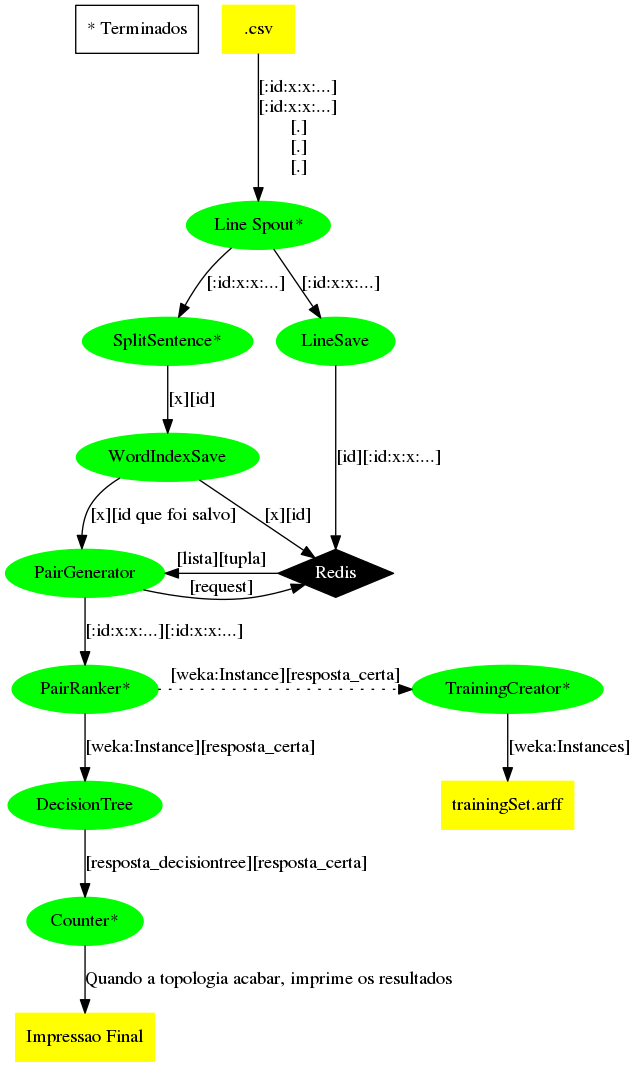
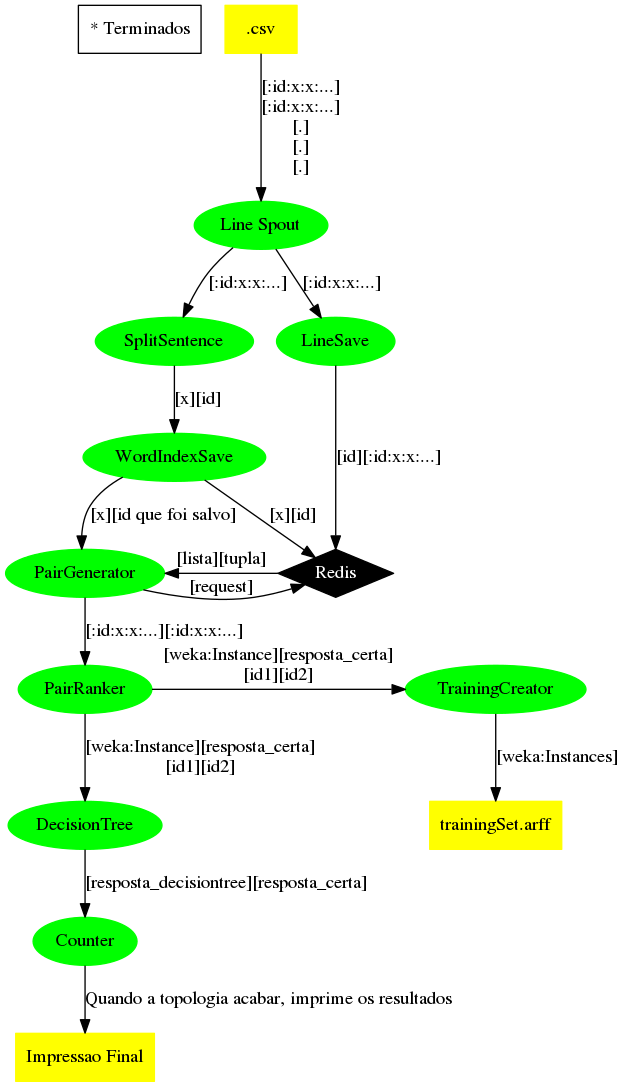
Nada de produtivo. O TrainingCreator não tá fazendo o que deveria

Changed region(s): [[0.0, 0.0, 1.0, 0.9897], [0.0913, 0.0, 0.3654, 0.0619]]

diff --git a/src/main/java/com/storminho/uffs/TrainingCreator.java b/src/main/java/com/storminho/uffs/TrainingCreator.java
@@ -11,6 +11,7 @@ import org.apache.storm.task.OutputCollector;
 
 import java.util.Map;
 import java.util.Random;
+import java.util.TreeSet;
 import org.apache.storm.task.TopologyContext;
 import org.apache.storm.tuple.Fields;
 import weka.core.DenseInstance;
@@ -19,9 +20,10 @@ import weka.core.Instances;
 public class TrainingCreator extends BaseRichBolt implements IRichBolt {
     PrintStream ps;
     double ss;
-    int paresPositivos, paresTotais;
+    int paresPositivos, paresTotais, trDup, trNao;
     Instances dataRaw;
     private WekaStorminho ws;
+    TreeSet<String> set;
 
 
     @Override
@@ -31,8 +33,9 @@ public class TrainingCreator extends BaseRichBolt implements IRichBolt {
         } catch (Exception e) {
             System.out.println(e);
         }
-        ss = Variables.trainingSampleSize;
-        paresPositivos = paresTotais = 0;
+        set = null;
+        set = new TreeSet<String>();
+        paresPositivos = paresTotais = trDup = trNao = 0;
 
         //weka
         WekaStorminho ws = new WekaStorminho();
@@ -46,38 +49,27 @@ public class TrainingCreator extends BaseRichBolt implements IRichBolt {
         Random random = new Random();
         int matchingInstances = (int)(ss * Variables.duplicatesTotal);
         double nonMatchRatio = (double)matchingInstances / Variables.totalPairs;
+        String id1 = tuple.getString(2), id2 = tuple.getString(3);
 
-        paresTotais++;
-        if (tuple.getInteger(1).equals(1)) {
-            if (random.nextDouble() < ss) { //ss = sample size
+        if (set.add(id1 + "_" + id2) && set.add(id2 + "_" + id1) && id1.equals(id2)) { //só vai passar por esse if aqueles que não foram considerados ainda e aqueles que não são exatamente igual (as redundâncias)
+            paresTotais++;
+            if (SharedMethods.isDuplicata(id1, id2)) { //Vai contar quantos pares distintos são duplicatas
                 paresPositivos++;
-            } else {
+                System.out.println(id1 + "\n" + id2);//////////////////////////////////////////////////////////////////////////////////////////
+                if (random.nextDouble() < Variables.trainingSampleSize) { //ss = sample size
+                    trDup++; //Quantas duplicatas entraram no set de treinamento
+                } else {
+                    return;
+                }
+            } else if (nonMatchRatio <= random.nextDouble()) {
                 return;
+            } else {
+                trNao++; //Quantas não-duplicatas entraram no set de treinamento
             }
-        } else if (nonMatchRatio <= random.nextDouble()) {
-            return;
+            ins.setDataset(dataRaw);
+            ins.setClassValue((tuple.getInteger(1) == 1 ? "duplicata":"não-duplicata"));
+            dataRaw.add(ins);
         }
-        ins.setDataset(dataRaw);
-        ins.setClassValue((tuple.getInteger(1) == 1 ? "duplicata":"não-duplicata"));
-        dataRaw.add(ins);
-    }
-
-    //Write "frame" for the .arff file
-    private void initializeArrfFile() {
-        int qtdMethods = 0;
-
-        //get the quantity of methods that gonna be used
-        for (int aux = Variables.rankingMethods; aux != 0; aux = aux >> 1) {
-            if ((1 & aux) != 0) qtdMethods++;
-        }
-
-        ps.print("@relation trainingSet\n");
-        int columns = (Variables.attributesNumber - (Variables.fieldId + 1)) * qtdMethods;
-        for (int i = 0; i < columns; i++) {
-            ps.print("@attribute att" + i + " numeric\n");
-        }
-        ps.print("@attribute isDuplicate numeric\n@data\n");
-        ps.flush();
     }
 
     @Override
@@ -90,6 +82,9 @@ public class TrainingCreator extends BaseRichBolt implements IRichBolt {
         ps.print(dataRaw);
         ps.flush();
         ps.close();
-        System.out.println("\n\n\nPARES DUPLICADOS: " + paresPositivos + " PARES TOTAIS: " + paresTotais + "\n\n\n");
+        System.out.println("\n\n\nENTRARAM NO IF:\nPARES DUPLICATAS: " + paresPositivos + " PARES TOTAIS: " + paresTotais);
+        System.out.println();
+        System.out.println("ENTRARAM NO TREINAMENTO:\nPositivos: " + trDup + " e Negativos: " + trNao + "\n\n");
+        System.out.println("\n");
     }
 }

diff --git a/src/main/java/com/storminho/uffs/PairRanker.java b/src/main/java/com/storminho/uffs/PairRanker.java
@@ -37,8 +37,7 @@ public class PairRanker extends BaseRichBolt implements IRichBolt {
 
     @Override
     public void execute(Tuple tuple) {
-//        System.out.println("[" + tuple.getString(0)+ " " +tuple.getString(1) + "]");
-        boolean duplicata = isDuplicata(tuple.getString(0), tuple.getString(1)); //checa se são duplicatas
+        boolean duplicata = SharedMethods.isDuplicata(tuple.getString(0), tuple.getString(1)); //checa se são duplicatas
         String tuple1[] = tuple.getString(0).split(Variables.splitChars);
         String tuple2[] = tuple.getString(1).split(Variables.splitChars);
         String store = "";
@@ -50,11 +49,11 @@ public class PairRanker extends BaseRichBolt implements IRichBolt {
                 if ((2 & Variables.rankingMethods) != 0) instanceValues[i++] = jaccardSim.compare(tuple1[j], tuple2[j]);
                 if ((4 & Variables.rankingMethods) != 0) instanceValues[i++] = jaroWinklerSim.compare(tuple1[j], tuple2[j]);
                 if ((8 & Variables.rankingMethods) != 0) instanceValues[i++] = levenshteinSim.compare(tuple1[j], tuple2[j]);
-                if ((16 & Variables.rankingMethods) != 0) instanceValues[i++] = qGramsDistanceSim.compare(tuple1[j], tuple2[j]); 
+                if ((16 & Variables.rankingMethods) != 0) instanceValues[i++] = qGramsDistanceSim.compare(tuple1[j], tuple2[j]);
             } catch (Exception e) {
                 e.printStackTrace();
                 for (int x = 0; x < tuple1.length; x++) {
-                    System.out.println("[" + tuple1[x] + "]");   
+                    System.out.println("[" + tuple1[x] + "]");
                     System.out.println("[" + tuple2[x] + "]");
                 }
                 System.out.println(tuple.getString(0) + "\n" + tuple.getString(1) + "\n");
@@ -67,29 +66,13 @@ public class PairRanker extends BaseRichBolt implements IRichBolt {
         // System.out.println("Last:  " + dataRaw.lastInstance());
         // System.out.println("Number of Instances: " + dataRaw.numInstances());
 //         System.out.println("@" + inst);
-        
-        _collector.emit(new Values(inst, (duplicata ? 1:0)));
-    }
 
-    //this method only checks if two tuples are duplicatas according to the number in the first column
-    private boolean isDuplicata(String tupleA, String tupleB) {
-        //split the tuples' indexes to separe the identifier
-        String[] aSplit = tupleA.split(Variables.indexSplitToken);
-        String[] bSplit = tupleB.split(Variables.indexSplitToken);
-
-        //check if the identifier of both are equal
-        boolean flag = false;
-        try {
-            flag = (Integer.parseInt(aSplit[1]) == Integer.parseInt(bSplit[1]));
-        } catch (Exception e) {
-            System.out.println("com.storminho.uffs.PairRanker.isDuplicata()");
-        }
-            return flag;
+        _collector.emit(new Values(inst, (duplicata ? 1:0), tuple.getString(2), tuple.getString(3)));
     }
 
     @Override
         public void declareOutputFields(OutputFieldsDeclarer declarer) {
-        declarer.declare(new Fields("similaridade", "resposta_certa"));
+        declarer.declare(new Fields("similaridade", "resposta_certa", "id1", "id2"));
     }
 
     @Override

diff --git a/src/main/java/com/storminho/uffs/GuilhermeTopology.java b/src/main/java/com/storminho/uffs/GuilhermeTopology.java
@@ -27,11 +27,11 @@ public class GuilhermeTopology {
 
     builder.setSpout("line-spout", new LineSpout());
     builder.setBolt("line-saver", new LineSaver(), 1).shuffleGrouping("line-spout");
-    builder.setBolt("split-sentence", new SplitSentence(), 8).shuffleGrouping("line-spout");
+    builder.setBolt("split-sentence", new SplitSentence(), 1).shuffleGrouping("line-spout");
     builder.setBolt("index-save", new WordIndexSave(), 1).shuffleGrouping("split-sentence");
-    builder.setBolt("pair-generator", new PairGenerator(), 2).shuffleGrouping("index-save");
-//    builder.setBolt("pair-ranker", new PairRanker(), 2).shuffleGrouping("pair-generator");
-//    builder.setBolt("training-creator", new TrainingCreator(), 1).shuffleGrouping("pair-ranker");
+    builder.setBolt("pair-generator", new PairGenerator(), 1).shuffleGrouping("index-save");
+    builder.setBolt("pair-ranker", new PairRanker(), 1).shuffleGrouping("pair-generator");
+    builder.setBolt("training-creator", new TrainingCreator(), 1).shuffleGrouping("pair-ranker");
 //    builder.setBolt("decisiontree", new DecisionTree(), 1).shuffleGrouping("pair-ranker");
 //    builder.setBolt("counter", new Counter(), 1).shuffleGrouping("decisiontree");
 
@@ -39,11 +39,11 @@ public class GuilhermeTopology {
     conf.setDebug(false);
 
     if (args != null && args.length > 0) {
-      conf.setNumWorkers(3);
+      conf.setNumWorkers(1);
       StormSubmitter.submitTopology(args[0], conf, builder.createTopology());
     }
     else {
-      conf.setMaxTaskParallelism(3);
+      conf.setMaxTaskParallelism(1);
       LocalCluster cluster = new LocalCluster();
       cluster.submitTopology("word-count-topology", conf, builder.createTopology());
       System.out.println("\n\n\n=================================================");

diff --git a/src/main/java/com/storminho/uffs/SharedMethods.java b/src/main/java/com/storminho/uffs/SharedMethods.java
@@ -1,0 +1,49 @@
+/**
+* Methods that can be used by more than one bolt
+*/
+
+package com.storminho.uffs;
+
+import java.io.PrintStream;
+
+public class SharedMethods {
+    /**
+    *This method only checks if two tuples are duplicatas according to the number in the first column.
+    *@param idA the id field of a tuple
+    *@param idB the id field of a tuple
+    */
+    public static boolean isDuplicata(String idA, String idB) {
+        //split the tuples' indexes to separe the identifier
+        String[] aSplit = idA.split(Variables.indexSplitToken);
+        String[] bSplit = idB.split(Variables.indexSplitToken);
+
+        //check if the identifier of both are equal
+        boolean flag = false;
+        try {
+            flag = (Integer.parseInt(aSplit[1]) == Integer.parseInt(bSplit[1]));
+        } catch (Exception e) {
+            System.out.println("com.storminho.uffs.PairRanker.isDuplicata()");
+        }
+            return flag;
+    }
+
+    /**
+    * Write the basic header for a .arff
+    */
+    public static void initializeArrfFile(PrintStream ps) {
+        int qtdMethods = 0;
+
+        //get the quantity of methods that gonna be used
+        for (int aux = Variables.rankingMethods; aux != 0; aux = aux >> 1) {
+            if ((1 & aux) != 0) qtdMethods++;
+        }
+
+        ps.print("@relation trainingSet\n");
+        int columns = (Variables.attributesNumber - (Variables.fieldId + 1)) * qtdMethods;
+        for (int i = 0; i < columns; i++) {
+            ps.print("@attribute att" + i + " numeric\n");
+        }
+        ps.print("@attribute isDuplicate numeric\n@data\n");
+        ps.flush();
+    }
+}

diff --git a/src/main/java/com/storminho/uffs/PairGenerator.java b/src/main/java/com/storminho/uffs/PairGenerator.java
@@ -38,7 +38,7 @@ public class PairGenerator extends BaseRichBolt implements Serializable{
         try {
             Set<String> set = jedis.smembers(word);
             for (String toPair : set) {
-                 _collector.emit(new Values(jedis.get(toPair), jedis.get(lineId)));
+                 _collector.emit(new Values(jedis.get(toPair), jedis.get(lineId), toPair, lineId));
             }
         } catch (Exception e) {
             e.printStackTrace();
@@ -47,7 +47,7 @@ public class PairGenerator extends BaseRichBolt implements Serializable{
 
     @Override
     public void declareOutputFields(OutputFieldsDeclarer declarer) {
-      declarer.declare(new Fields("line1", "line2"));
+      declarer.declare(new Fields("line1", "line2", "id1", "id2"));
     }
 
     @Override

diff --git a/src/main/java/com/storminho/uffs/Variables.java b/src/main/java/com/storminho/uffs/Variables.java
@@ -25,11 +25,11 @@ public class Variables {
     //Name of the output's file
     public static final String trainingOutputFile = "trainingSet.arff";
     //Sample Size
-    public static final double trainingSampleSize = 0.3;
+    public static final double trainingSampleSize = 0.5;
     //Total de pares que vai ser processado
-    public static final long totalPairs = 2073;
+    public static final long totalPairs = 20000;
     //Duplicatas' total in dataset
-    public static final long duplicatesTotal = 22;
+    public static final long duplicatesTotal = 2;
 
     /*PairRanker =============================================================*/
     /*Select the methods that gonna be used. Use this as a sum with the following numbers:

diff --git a/src/main/java/com/storminho/uffs/LineSpout.java b/src/main/java/com/storminho/uffs/LineSpout.java
@@ -21,7 +21,7 @@ public class LineSpout implements IRichSpout {
   public void open(Map conf, TopologyContext context, SpoutOutputCollector collector) {
     _collector = collector;
     try {
-      reader = new BufferedReader(new FileReader(Variables.csvPath + "teste_small"));
+      reader = new BufferedReader(new FileReader(Variables.csvPath + "teste_small-10"));
     } catch (Exception e) {
       throw new RuntimeException(e);
     }
